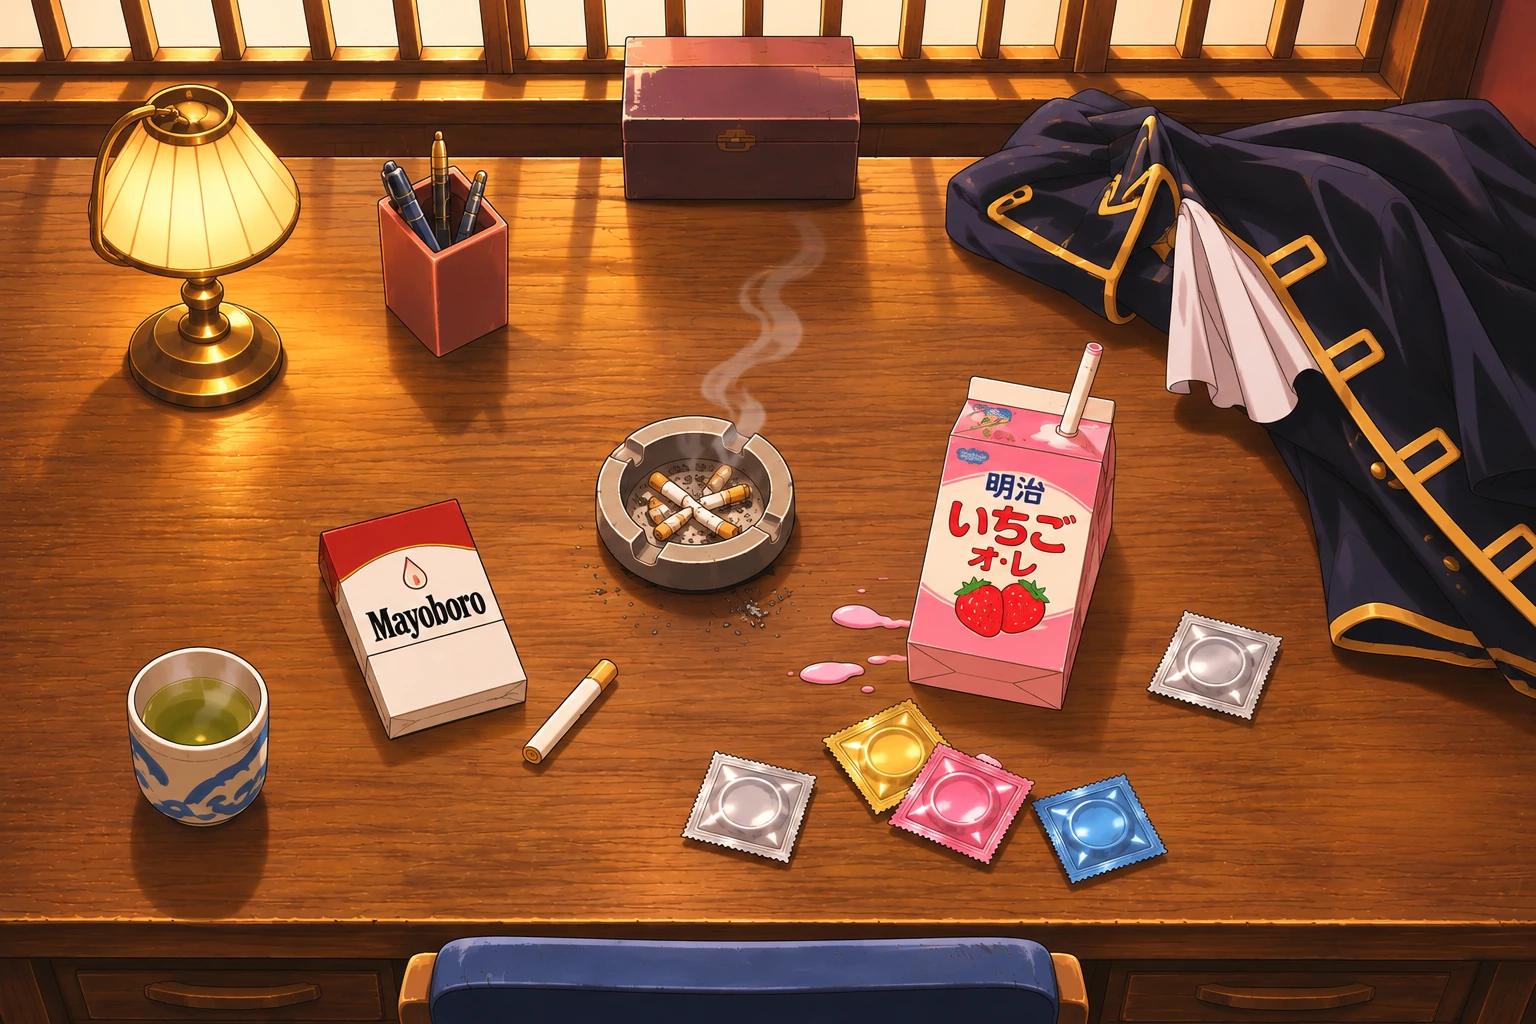
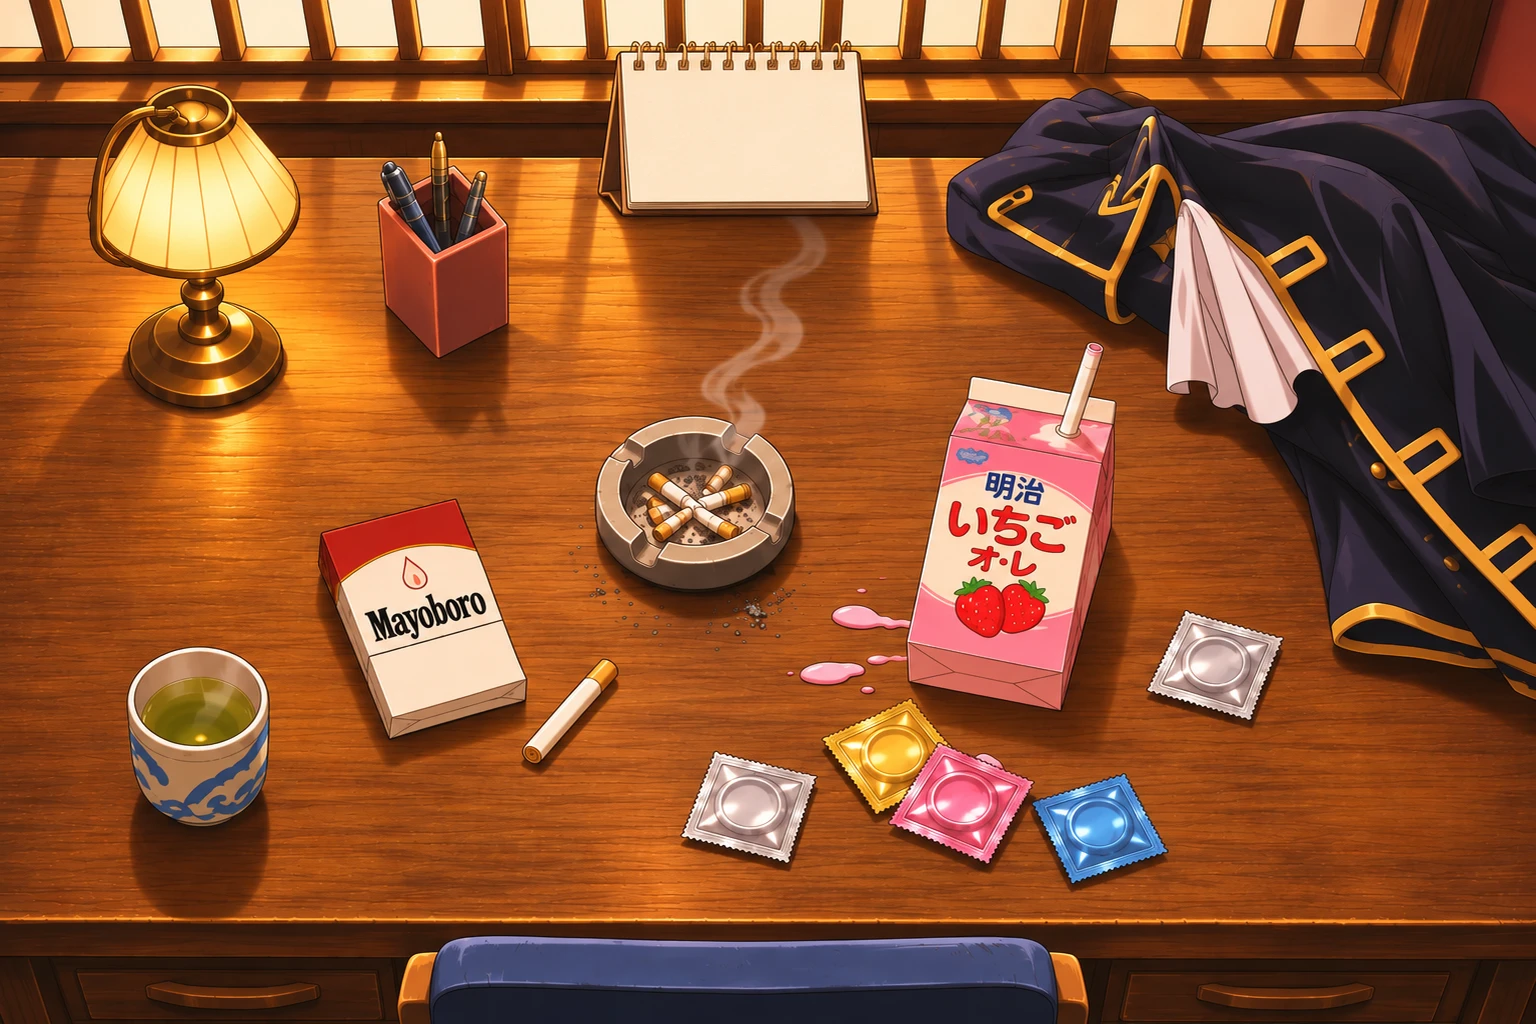
Add files via upload

diff --git a/index.html b/index.html
@@ -80,7 +80,24 @@ body.help-on .scene{filter:brightness(.8);transition:filter .2s}
 .help-btn:focus-visible{outline:3px solid #fffdf8;outline-offset:3px}
 @media(max-width:700px){.hotspot .tag{font-size:18px;padding:6px 11px 5px;border-width:2.3px;box-shadow:2.5px 2.5px 0 #191513}.hotspot.is-live .tag{font-size:20px;padding:7px 13px 6px}.hotspot .tag small{font-size:13px;margin-left:4px}.help-btn{width:50px;height:50px;font-size:30px}.hotspot .spark.s1{width:32px;height:32px;right:22%}.hotspot .spark.s2{width:22px;height:22px}.hotspot .spark.s3{width:17px;height:17px}}
 @media(prefers-reduced-motion:reduce){.hotspot .spark,.help-btn.hint:before{animation:none}.hotspot .tag{transition:none}}
-</style></head><body><svg width="0" height="0" style="position:absolute" aria-hidden="true"><filter id="loginRough"><feTurbulence type="fractalNoise" baseFrequency="0.03" numOctaves="2" seed="4"/><feDisplacementMap in="SourceGraphic" scale="6"/></filter></svg><section class="login-gate" id="loginGate" aria-label="게부장 타임 로그인"><form class="login-col" id="deskLoginForm" novalidate><div class="login-field id"><div class="login-icons" aria-hidden="true"><svg class="milk" viewBox="0 0 44 60"><path d="M8 18 L22 6 L36 18 Z" fill="#fff" stroke="#191513" stroke-width="3" stroke-linejoin="round"/><rect x="18" y="1.5" width="8" height="7" rx="1" fill="#f6a6bd" stroke="#191513" stroke-width="2.6"/><rect x="6" y="18" width="32" height="38" rx="3" fill="#fffdf8"/><path d="M7.5 36 h29 v18 h-29z" fill="#f6a6bd"/><path d="M6 36 h32" stroke="#191513" stroke-width="2.4"/><path d="M22 25 c-5 0-7 4-6 7 c1 3 4 5 6 6 c2-1 5-3 6-6 c1-3-1-7-6-7z" fill="#e2464f" stroke="#191513" stroke-width="2"/><path d="M19 24.5 l3 2.5 l3-2.5" fill="#6fae5a" stroke="#191513" stroke-width="1.6" stroke-linejoin="round"/><circle cx="20" cy="30" r=".9" fill="#fff"/><circle cx="24" cy="31.5" r=".9" fill="#fff"/><rect x="6" y="18" width="32" height="38" rx="3" fill="none" stroke="#191513" stroke-width="3"/></svg><svg class="mayo" viewBox="0 0 40 64"><rect x="14" y="2" width="12" height="8" rx="2" fill="#e2464f" stroke="#191513" stroke-width="2.6"/><path d="M12 10 h16 l3 6 c3 4 4 9 4 16 v22 c0 5-3 8-8 8 h-14 c-5 0-8-3-8-8 v-22 c0-7 1-12 4-16z" fill="#fff6cf" stroke="#191513" stroke-width="3" stroke-linejoin="round"/><path d="M6.5 34 h27 v14 h-27z" fill="#fffdf8" stroke="#191513" stroke-width="2"/><path d="M14 41 l3-3 l3 3 l3-3 l3 3" fill="none" stroke="#e2464f" stroke-width="2.2" stroke-linecap="round" stroke-linejoin="round"/><path d="M11 17 c-1 4-1 8-1 12" stroke="#fff" stroke-width="2.4" stroke-linecap="round" fill="none"/></svg></div><div class="tone"></div><div class="bub rough"></div><svg class="tail" viewBox="0 0 24 18" aria-hidden="true"><path d="M2 0 L4 16 L20 0" fill="#fffdf8" stroke="#191513" stroke-width="3" stroke-linejoin="round"/><rect x="0" y="-3" width="24" height="4.5" fill="#fffdf8"/></svg><label class="sr-only" for="deskLoginId">아이디</label><input id="deskLoginId" type="text" placeholder="아이디를 입력해 주셔!" autocomplete="username" autocapitalize="off" spellcheck="false" required><span class="login-sfx dokeun" aria-hidden="true">두근</span></div><div class="login-field pw"><div class="tone"></div><div class="bub rough"></div><svg class="tail" viewBox="0 0 24 18" aria-hidden="true"><path d="M2 0 L4 16 L20 0" fill="#fffdf8" stroke="#191513" stroke-width="3" stroke-linejoin="round"/><rect x="0" y="-3" width="24" height="4.5" fill="#fffdf8"/></svg><label class="sr-only" for="deskLoginPassword">비밀번호</label><input id="deskLoginPassword" type="password" placeholder="비번도 입력해 주셔!" autocomplete="current-password" required></div><div class="login-btnwrap"><button class="login-submit rough" type="submit" id="deskLoginButton"><span id="deskLoginLabel">들어가기!</span></button><span class="login-sfx seuk" aria-hidden="true">슥</span></div><p class="login-error" id="deskLoginError" role="alert" aria-live="polite"></p></form></section><main class="stage" aria-label="소품을 눌러 이동하는 해결사 책상"><img class="scene desktop" src="img/desk-desktop.webp" alt="해결사 책상 위에 흩어진 소품들" width="1536" height="1024"><img class="scene mobile" src="img/desk-mobile.webp" alt="해결사 책상 위에 흩어진 소품들" width="941" height="1672"><div class="hotspots desktop"><button class="hotspot" type="button" data-item="lamp" aria-label="스탠드 — 준비 중" data-x="13" data-y="23" data-w="19" data-h="35"><span class="sr-only">스탠드</span></button><button class="hotspot" type="button" data-item="pens" aria-label="필통 — 준비 중" data-x="29" data-y="24" data-w="14" data-h="27"><span class="sr-only">필통</span></button><button class="hotspot" type="button" data-item="box" aria-label="나무 상자 — 준비 중" data-x="48" data-y="10" data-w="20" data-h="19"><span class="sr-only">나무 상자</span></button><button class="hotspot" type="button" data-item="jacket" aria-label="부장님 껍질 — 준비 중" data-x="81" data-y="31" data-w="38" data-h="56"><span class="sr-only">부장님 껍질</span></button><button class="hotspot" type="button" data-item="ashtray" aria-label="재떨이 — 준비 중" data-x="45" data-y="49" data-w="16" data-h="25"><span class="sr-only">재떨이</span></button><button class="hotspot" type="button" data-item="cigarette" aria-label="마요보로 — 준비 중" data-x="28" data-y="60" data-w="18" data-h="25"><span class="sr-only">마요보로</span></button><button class="hotspot is-live" type="button" data-item="milk" aria-label="딸기우유 · 서재 입장 — 서재로 이동" data-x="66" data-y="50" data-w="19" data-h="36"><span class="sr-only">딸기우유 · 서재 입장</span></button><button class="hotspot" type="button" data-item="condom" aria-label="CD — 준비 중" data-x="65" data-y="77" data-w="32" data-h="22"><span class="sr-only">CD</span></button><button class="hotspot" type="button" data-item="tea" aria-label="찻잔 — 준비 중" data-x="13" data-y="71" data-w="16" data-h="23"><span class="sr-only">찻잔</span></button></div><div class="hotspots mobile"><button class="hotspot" type="button" data-item="lamp" aria-label="스탠드 — 준비 중" data-x="15" data-y="25" data-w="31" data-h="29"><span class="sr-only">스탠드</span></button><button class="hotspot" type="button" data-item="pens" aria-label="필통 — 준비 중" data-x="41" data-y="26" data-w="19" data-h="18"><span class="sr-only">필통</span></button><button class="hotspot" type="button" data-item="box" aria-label="나무 상자 — 준비 중" data-x="52" data-y="11" data-w="29" data-h="12"><span class="sr-only">나무 상자</span></button><button class="hotspot" type="button" data-item="jacket" aria-label="부장님 껍질 — 준비 중" data-x="83" data-y="22" data-w="34" data-h="25"><span class="sr-only">부장님 껍질</span></button><button class="hotspot" type="button" data-item="ashtray" aria-label="재떨이 — 준비 중" data-x="48" data-y="50" data-w="30" data-h="13"><span class="sr-only">재떨이</span></button><button class="hotspot" type="button" data-item="cigarette" aria-label="마요보로 — 준비 중" data-x="25" data-y="59.2" data-w="42" data-h="21"><span class="sr-only">마요보로</span></button><button class="hotspot" type="button" data-item="condom" aria-label="CD — 준비 중" data-x="66" data-y="79" data-w="62" data-h="21"><span class="sr-only">CD</span></button><button class="hotspot" type="button" data-item="tea" aria-label="찻잔 — 준비 중" data-x="14" data-y="77" data-w="19" data-h="14"><span class="sr-only">찻잔</span></button><button class="hotspot is-live" type="button" data-item="milk" aria-label="딸기우유 · 서재 입장 — 서재로 이동" data-x="79" data-y="54" data-w="29" data-h="27"><span class="sr-only">딸기우유 · 서재 입장</span></button></div></main><button class="help-btn" id="helpBtn" type="button" aria-pressed="false" aria-label="도움말: 소품 이름 보기"><span class="q">?</span><span class="x" aria-hidden="true">×</span></button><div class="toast" id="toast" role="status" aria-live="polite"></div><script>
+/* ===== 책상 달력 (2026-11-15): 사귄 날 2026-10-31 새벽 2:18(한국 시간) 고정, 며칠째 + 실시간 시간 ===== */
+.cal-page{position:absolute;left:0;top:0;width:400px;height:240px;transform-origin:0 0;pointer-events:none;z-index:1;
+ color:#3d2a20;font-family:'OwnglyphParkDaHyun',cursive;mix-blend-mode:multiply;text-align:center;
+ display:flex;flex-direction:column;align-items:center;justify-content:center;padding:6px 18px 10px}
+.cal-page .r{color:#b8473a}
+.cal-page .day{display:flex;align-items:baseline;justify-content:center;gap:4px;line-height:.86;margin:4px 0 2px}
+.cal-page .day b{font:700 178px/.86 'DongpaKkeujeogim','OwnglyphParkDaHyun',sans-serif;color:#b8473a;letter-spacing:-.02em}
+.cal-page .day span{font-size:66px}
+.cal-page .clock{font-size:52px;line-height:1.05;white-space:nowrap;margin-top:6px}
+.cal-page .num{font-variant-numeric:tabular-nums}
+.cal-page .hm{position:absolute;right:20px;top:14px;font-size:34px;transform:rotate(12deg)}
+.cal-page.m{width:300px;height:228px;padding:4px 12px 8px}
+.cal-page.m .day b{font-size:160px}.cal-page.m .day span{font-size:60px}
+.cal-page.m .clock{font-size:42px}
+.cal-page.m .hm{right:12px;top:8px;font-size:30px}
+body:not(.desk-unlocked) .cal-page{visibility:hidden}
+body.help-on .cal-page{opacity:.8}
+</style></head><body><svg width="0" height="0" style="position:absolute" aria-hidden="true"><filter id="loginRough"><feTurbulence type="fractalNoise" baseFrequency="0.03" numOctaves="2" seed="4"/><feDisplacementMap in="SourceGraphic" scale="6"/></filter></svg><section class="login-gate" id="loginGate" aria-label="게부장 타임 로그인"><form class="login-col" id="deskLoginForm" novalidate><div class="login-field id"><div class="login-icons" aria-hidden="true"><svg class="milk" viewBox="0 0 44 60"><path d="M8 18 L22 6 L36 18 Z" fill="#fff" stroke="#191513" stroke-width="3" stroke-linejoin="round"/><rect x="18" y="1.5" width="8" height="7" rx="1" fill="#f6a6bd" stroke="#191513" stroke-width="2.6"/><rect x="6" y="18" width="32" height="38" rx="3" fill="#fffdf8"/><path d="M7.5 36 h29 v18 h-29z" fill="#f6a6bd"/><path d="M6 36 h32" stroke="#191513" stroke-width="2.4"/><path d="M22 25 c-5 0-7 4-6 7 c1 3 4 5 6 6 c2-1 5-3 6-6 c1-3-1-7-6-7z" fill="#e2464f" stroke="#191513" stroke-width="2"/><path d="M19 24.5 l3 2.5 l3-2.5" fill="#6fae5a" stroke="#191513" stroke-width="1.6" stroke-linejoin="round"/><circle cx="20" cy="30" r=".9" fill="#fff"/><circle cx="24" cy="31.5" r=".9" fill="#fff"/><rect x="6" y="18" width="32" height="38" rx="3" fill="none" stroke="#191513" stroke-width="3"/></svg><svg class="mayo" viewBox="0 0 40 64"><rect x="14" y="2" width="12" height="8" rx="2" fill="#e2464f" stroke="#191513" stroke-width="2.6"/><path d="M12 10 h16 l3 6 c3 4 4 9 4 16 v22 c0 5-3 8-8 8 h-14 c-5 0-8-3-8-8 v-22 c0-7 1-12 4-16z" fill="#fff6cf" stroke="#191513" stroke-width="3" stroke-linejoin="round"/><path d="M6.5 34 h27 v14 h-27z" fill="#fffdf8" stroke="#191513" stroke-width="2"/><path d="M14 41 l3-3 l3 3 l3-3 l3 3" fill="none" stroke="#e2464f" stroke-width="2.2" stroke-linecap="round" stroke-linejoin="round"/><path d="M11 17 c-1 4-1 8-1 12" stroke="#fff" stroke-width="2.4" stroke-linecap="round" fill="none"/></svg></div><div class="tone"></div><div class="bub rough"></div><svg class="tail" viewBox="0 0 24 18" aria-hidden="true"><path d="M2 0 L4 16 L20 0" fill="#fffdf8" stroke="#191513" stroke-width="3" stroke-linejoin="round"/><rect x="0" y="-3" width="24" height="4.5" fill="#fffdf8"/></svg><label class="sr-only" for="deskLoginId">아이디</label><input id="deskLoginId" type="text" placeholder="아이디를 입력해 주셔!" autocomplete="username" autocapitalize="off" spellcheck="false" required><span class="login-sfx dokeun" aria-hidden="true">두근</span></div><div class="login-field pw"><div class="tone"></div><div class="bub rough"></div><svg class="tail" viewBox="0 0 24 18" aria-hidden="true"><path d="M2 0 L4 16 L20 0" fill="#fffdf8" stroke="#191513" stroke-width="3" stroke-linejoin="round"/><rect x="0" y="-3" width="24" height="4.5" fill="#fffdf8"/></svg><label class="sr-only" for="deskLoginPassword">비밀번호</label><input id="deskLoginPassword" type="password" placeholder="비번도 입력해 주셔!" autocomplete="current-password" required></div><div class="login-btnwrap"><button class="login-submit rough" type="submit" id="deskLoginButton"><span id="deskLoginLabel">들어가기!</span></button><span class="login-sfx seuk" aria-hidden="true">슥</span></div><p class="login-error" id="deskLoginError" role="alert" aria-live="polite"></p></form></section><main class="stage" aria-label="소품을 눌러 이동하는 해결사 책상"><img class="scene desktop" src="img/desk-desktop.webp" alt="해결사 책상 위에 흩어진 소품들" width="1536" height="1024"><img class="scene mobile" src="img/desk-mobile.webp" alt="해결사 책상 위에 흩어진 소품들" width="941" height="2040"><div class="cal-page" id="calPage" aria-hidden="true"><span class="hm r">♡</span><span class="day"><b class="num cal-days">0</b><span>일째</span></span><span class="clock"><span class="num cal-h">0</span>시간 <span class="num cal-m">00</span>분 <span class="num cal-s">00</span>초</span></div><div class="hotspots desktop"><button class="hotspot" type="button" data-item="lamp" aria-label="스탠드 — 준비 중" data-x="13" data-y="23" data-w="19" data-h="35"><span class="sr-only">스탠드</span></button><button class="hotspot" type="button" data-item="pens" aria-label="필통 — 준비 중" data-x="29" data-y="24" data-w="14" data-h="27"><span class="sr-only">필통</span></button><button class="hotspot" type="button" data-item="calendar" aria-label="달력 — 준비 중" data-x="48.6" data-y="12.3" data-w="19" data-h="18"><span class="sr-only">달력</span></button><button class="hotspot" type="button" data-item="jacket" aria-label="부장님 껍질 — 준비 중" data-x="81" data-y="31" data-w="38" data-h="56"><span class="sr-only">부장님 껍질</span></button><button class="hotspot" type="button" data-item="ashtray" aria-label="재떨이 — 준비 중" data-x="45" data-y="49" data-w="16" data-h="25"><span class="sr-only">재떨이</span></button><button class="hotspot" type="button" data-item="cigarette" aria-label="마요보로 — 준비 중" data-x="28" data-y="60" data-w="18" data-h="25"><span class="sr-only">마요보로</span></button><button class="hotspot is-live" type="button" data-item="milk" aria-label="딸기우유 · 서재 입장 — 서재로 이동" data-x="66" data-y="50" data-w="19" data-h="36"><span class="sr-only">딸기우유 · 서재 입장</span></button><button class="hotspot" type="button" data-item="condom" aria-label="CD — 준비 중" data-x="65" data-y="77" data-w="32" data-h="22"><span class="sr-only">CD</span></button><button class="hotspot" type="button" data-item="tea" aria-label="찻잔 — 준비 중" data-x="13" data-y="71" data-w="16" data-h="23"><span class="sr-only">찻잔</span></button></div><div class="hotspots mobile"><button class="hotspot" type="button" data-item="lamp" aria-label="스탠드 — 준비 중" data-x="15" data-y="31.76" data-w="31" data-h="23.77"><span class="sr-only">스탠드</span></button><button class="hotspot" type="button" data-item="pens" aria-label="필통 — 준비 중" data-x="41" data-y="32.58" data-w="19" data-h="14.75"><span class="sr-only">필통</span></button><button class="hotspot" type="button" data-item="calendar" aria-label="달력 — 준비 중" data-x="51.9" data-y="21.37" data-w="26" data-h="9.8"><span class="sr-only">달력</span></button><button class="hotspot" type="button" data-item="jacket" aria-label="부장님 껍질 — 준비 중" data-x="83" data-y="29.31" data-w="34" data-h="20.49"><span class="sr-only">부장님 껍질</span></button><button class="hotspot" type="button" data-item="ashtray" aria-label="재떨이 — 준비 중" data-x="48" data-y="52.25" data-w="30" data-h="10.65"><span class="sr-only">재떨이</span></button><button class="hotspot" type="button" data-item="cigarette" aria-label="마요보로 — 준비 중" data-x="25" data-y="59.8" data-w="42" data-h="17.21"><span class="sr-only">마요보로</span></button><button class="hotspot" type="button" data-item="condom" aria-label="CD — 준비 중" data-x="66" data-y="76.02" data-w="62" data-h="17.21"><span class="sr-only">CD</span></button><button class="hotspot" type="button" data-item="tea" aria-label="찻잔 — 준비 중" data-x="14" data-y="74.38" data-w="19" data-h="11.47"><span class="sr-only">찻잔</span></button><button class="hotspot is-live" type="button" data-item="milk" aria-label="딸기우유 · 서재 입장 — 서재로 이동" data-x="79" data-y="55.53" data-w="29" data-h="22.13"><span class="sr-only">딸기우유 · 서재 입장</span></button></div></main><button class="help-btn" id="helpBtn" type="button" aria-pressed="false" aria-label="도움말: 소품 이름 보기"><span class="q">?</span><span class="x" aria-hidden="true">×</span></button><div class="toast" id="toast" role="status" aria-live="polite"></div><script>
 (()=>{
   let timer;
   const toast=document.getElementById('toast');
@@ -90,7 +107,7 @@ body.help-on .scene{filter:brightness(.8);transition:filter .2s}
     const scene=document.querySelector('.scene.'+(mobile?'mobile':'desktop'));
     const layer=document.querySelector('.hotspots.'+(mobile?'mobile':'desktop'));
     const width=stage.clientWidth,height=stage.clientHeight;
-    const imageW=scene.naturalWidth||1536,imageH=scene.naturalHeight||1024;
+    const imageW=scene.naturalWidth||(mobile?941:1536),imageH=scene.naturalHeight||(mobile?2040:1024);
     const scale=Math.max(width/imageW,height/imageH);
     const shownW=imageW*scale,shownH=imageH*scale;
     const offsetX=(width-shownW)/2,offsetY=(height-shownH)/2;
@@ -138,7 +155,7 @@ body.help-on .scene{filter:brightness(.8);transition:filter .2s}
 <script>
 /* 소품 도움말: 이름표 + 반짝이 */
 (()=>{
- const NAMES={lamp:'스탠드',pens:'필통',box:'나무 상자',jacket:'부장님 껍질',ashtray:'재떨이',cigarette:'마요보로',milk:'딸기우유',condom:'CD',tea:'찻잔'};
+ const NAMES={lamp:'스탠드',pens:'필통',calendar:'달력',jacket:'부장님 껍질',ashtray:'재떨이',cigarette:'마요보로',milk:'딸기우유',condom:'CD',tea:'찻잔'};
  const GO={milk:'서재'};
  document.querySelectorAll('.hotspot').forEach(b=>{
   const k=b.dataset.item,t=document.createElement('span');t.className='tag';t.setAttribute('aria-hidden','true');
@@ -162,6 +179,36 @@ body.help-on .scene{filter:brightness(.8);transition:filter .2s}
  addEventListener('resize',()=>{if(document.body.classList.contains('help-on'))requestAnimationFrame(fit)});
  // 한 번도 안 열어 본 사람에겐 '?' 둘레에 점선이 빙글빙글
  try{if(!localStorage.getItem('desk-help-seen'))btn.classList.add('hint')}catch(e){}
+})();
+</script>
+<script>
+/* 책상 달력: 그림 속 종이(사다리꼴)에 글씨를 맞춰 붙이고 1초마다 갱신 */
+(()=>{
+ const START=Date.UTC(2026,9,30,17,18,0),KST=9*36e5,DAY=864e5; // 2026-10-31 02:18 한국 시간
+ const kday=t=>Math.floor((t+KST)/DAY),pad=n=>String(n).padStart(2,'0');
+ const QUAD={d:{img:[1536,1024],pts:[[627,76],[858,76],[866,197],[630,198]]},m:{img:[941,2040],pts:[[404,372],[592,370],[598,512],[410,516]]}};
+ function adj(m){return[m[4]*m[8]-m[5]*m[7],m[2]*m[7]-m[1]*m[8],m[1]*m[5]-m[2]*m[4],m[5]*m[6]-m[3]*m[8],m[0]*m[8]-m[2]*m[6],m[2]*m[3]-m[0]*m[5],m[3]*m[7]-m[4]*m[6],m[1]*m[6]-m[0]*m[7],m[0]*m[4]-m[1]*m[3]]}
+ function mul(a,b){const c=Array(9);for(let i=0;i<3;i++)for(let j=0;j<3;j++){let t=0;for(let k=0;k<3;k++)t+=a[3*i+k]*b[3*k+j];c[3*i+j]=t}return c}
+ function mulv(m,v){return[m[0]*v[0]+m[1]*v[1]+m[2]*v[2],m[3]*v[0]+m[4]*v[1]+m[5]*v[2],m[6]*v[0]+m[7]*v[1]+m[8]*v[2]]}
+ function basis(p){const m=[p[0][0],p[1][0],p[2][0],p[0][1],p[1][1],p[2][1],1,1,1];const v=mulv(adj(m),[p[3][0],p[3][1],1]);return mul(m,[v[0],0,0,0,v[1],0,0,0,v[2]])}
+ function m3d(w,h,d){const t=mul(basis([d[0],d[1],d[3],d[2]]),adj(basis([[0,0],[w,0],[0,h],[w,h]])));for(let i=0;i<9;i++)t[i]/=t[8];
+  return 'matrix3d('+[t[0],t[3],0,t[6],t[1],t[4],0,t[7],0,0,1,0,t[2],t[5],0,t[8]].join(',')+')'}
+ const stage=document.querySelector('.stage'),page=document.getElementById('calPage');if(!page)return;
+ function place(){
+  const mobile=matchMedia('(max-width:700px)').matches,q=QUAD[mobile?'m':'d'];page.classList.toggle('m',mobile);
+  const W=stage.clientWidth,H=stage.clientHeight,[iw,ih]=q.img,k=Math.max(W/iw,H/ih),ox=(W-iw*k)/2,oy=(H-ih*k)/2;
+  page.style.transform=m3d(page.offsetWidth,page.offsetHeight,q.pts.map(([x,y])=>[ox+x*k,oy+y*k]));
+ }
+ let last={};
+ function tick(){
+  const now=Date.now(),ms=Math.max(0,now-START),n=kday(now)-kday(START)+1; // 사귄 날 = 1일째
+  const v={'cal-days':n.toLocaleString('ko-KR'),'cal-h':Math.floor(ms/36e5).toLocaleString('ko-KR'),'cal-m':pad(Math.floor(ms/6e4)%60),'cal-s':pad(Math.floor(ms/1e3)%60)};
+  for(const c in v){if(last[c]===v[c])continue;last[c]=v[c];page.querySelectorAll('.'+c).forEach(e=>e.textContent=v[c])}
+  document.querySelectorAll('.hotspot[data-item=calendar]').forEach(b=>b.setAttribute('aria-label','달력: 사귄 지 '+n+'일째, '+v['cal-h']+'시간 '+v['cal-m']+'분 — 준비 중'));
+ }
+ tick();setInterval(tick,1000);
+ document.querySelectorAll('.scene').forEach(i=>i.addEventListener('load',place));
+ addEventListener('resize',place);(document.fonts?document.fonts.ready:Promise.resolve()).then(place);place();
 })();
 </script>
 </body></html>
